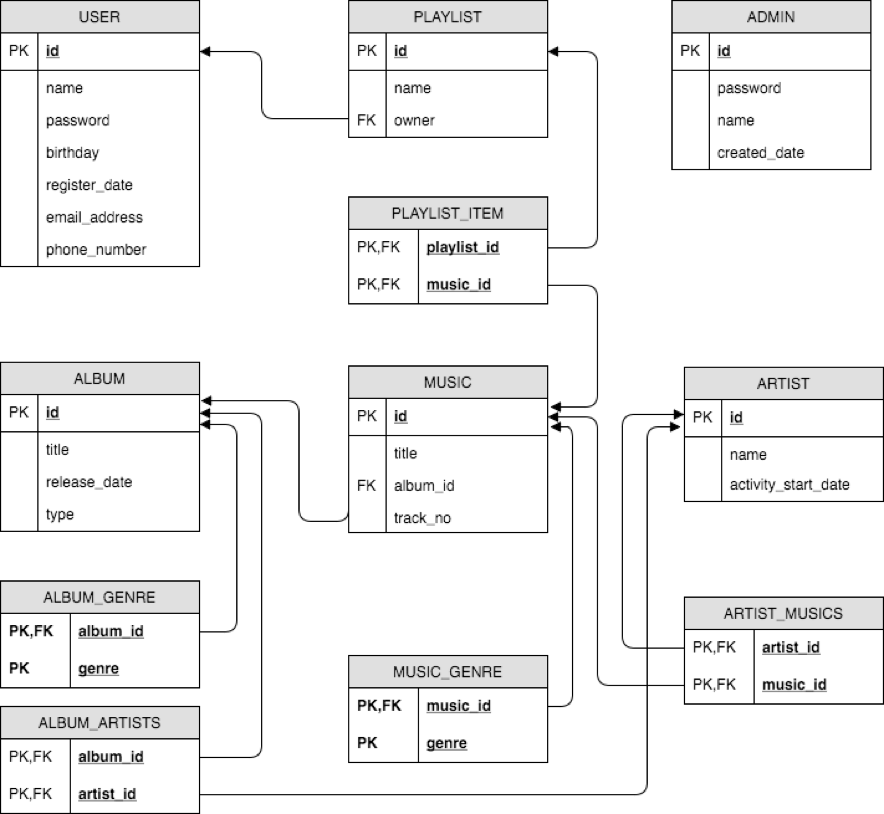
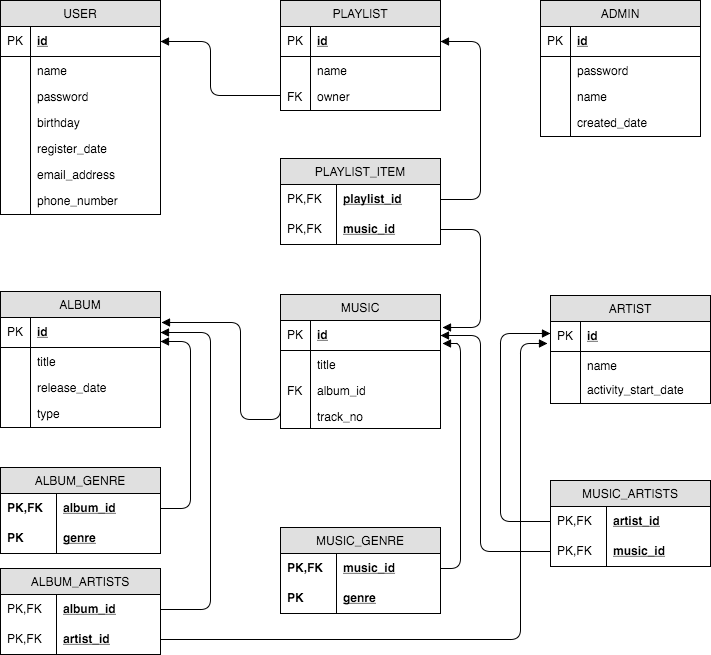
Improve README.md

diff --git a/README.md b/README.md
@@ -1,8 +1,68 @@
 # MyMusicTray
 Imaginary Music Player with MySQL
 
-### RDB Scheme
-![Scheme file](attaches/rdb_scheme.png)
+![program_title](attaches/program_title.png)
+
+
+
+### Usage
+
+```bash
+# Clone or download repository
+cd MyMusicTray
+ant
+java -jar MyMusicTray.jar
+```
+
+(MySQL or MariaDB server is required)
+
+
 
 ### Course
+
 ITE2083(Database System) @ [Hanyang University](http://hanyang.ac.kr)
+
+
+
+### Features
+
+| Home                                     | Admin features                           | User features                            |
+| ---------------------------------------- | ---------------------------------------- | ---------------------------------------- |
+| A1. Login admin<br />A2. User login<br />A3. User Signup | B1. View Musics <br />B2. Manage Artists<br />B3. Manage Albums <br />B4. Add new Artist <br />B5. Add new Album <br />B6. Register new admin <br />B7. Change password<br />B8. Remove account | C1. View Musics <br />C2. View Artists<br />C3. View Albums <br />C4. Manage Playlists<br />C5. Add new playlist<br />C6. Change password<br />C7. Remove account |
+
+Especially, 'Manage Artists(B2)', 'Manage Albums(B3)', and 'Manage Playlists(C4)' supports sub features like below.
+
+| Manage Artists (B2)                      | Manage Albums (B3)                       | Manage Playlists (C4)                    |
+| ---------------------------------------- | ---------------------------------------- | ---------------------------------------- |
+| D1. Edit information <br />D2. Remove artist | E1. Add artist to this album<br />E2. Add music to this album<br />E3. Remove music<br />E4. Edit information<br />E5. Remove album | F1. Add music to this playlist<br />F2. Remove music in this playlist<br />F3. Remove playlist |
+
+
+
+### Relational Data Model Scheme
+
+![rdb_scheme](attaches/rdb_scheme.png)
+
+
+
+### CRUD supports for each tables
+
+| Table           | select | insert | update | delete |
+| --------------- | ------ | ------ | ------ | ------ |
+| admin           | A1     | B6     | B7     | B8     |
+| album           | B3, C3 | B5     | E4     | E5     |
+| *album_genre*   | B3, C3 | B5     |        |        |
+| *album_artists* | B3, C3 | E1     |        |        |
+| artist          | B2, C2 | B4     | D1     | D2     |
+| music           | B1, C1 | E2     |        | E3     |
+| *music_genre*   | B1, C1 | E2     |        |        |
+| *music_artists* | B1, C1 | E2     |        |        |
+| playlist        | C4     | C5     |        | F3     |
+| *playlist_item* | C4     | F1     |        | F2     |
+| user            | A2     | A3     | C6     | C7     |
+
+
+
+### License
+
+MIT
+
